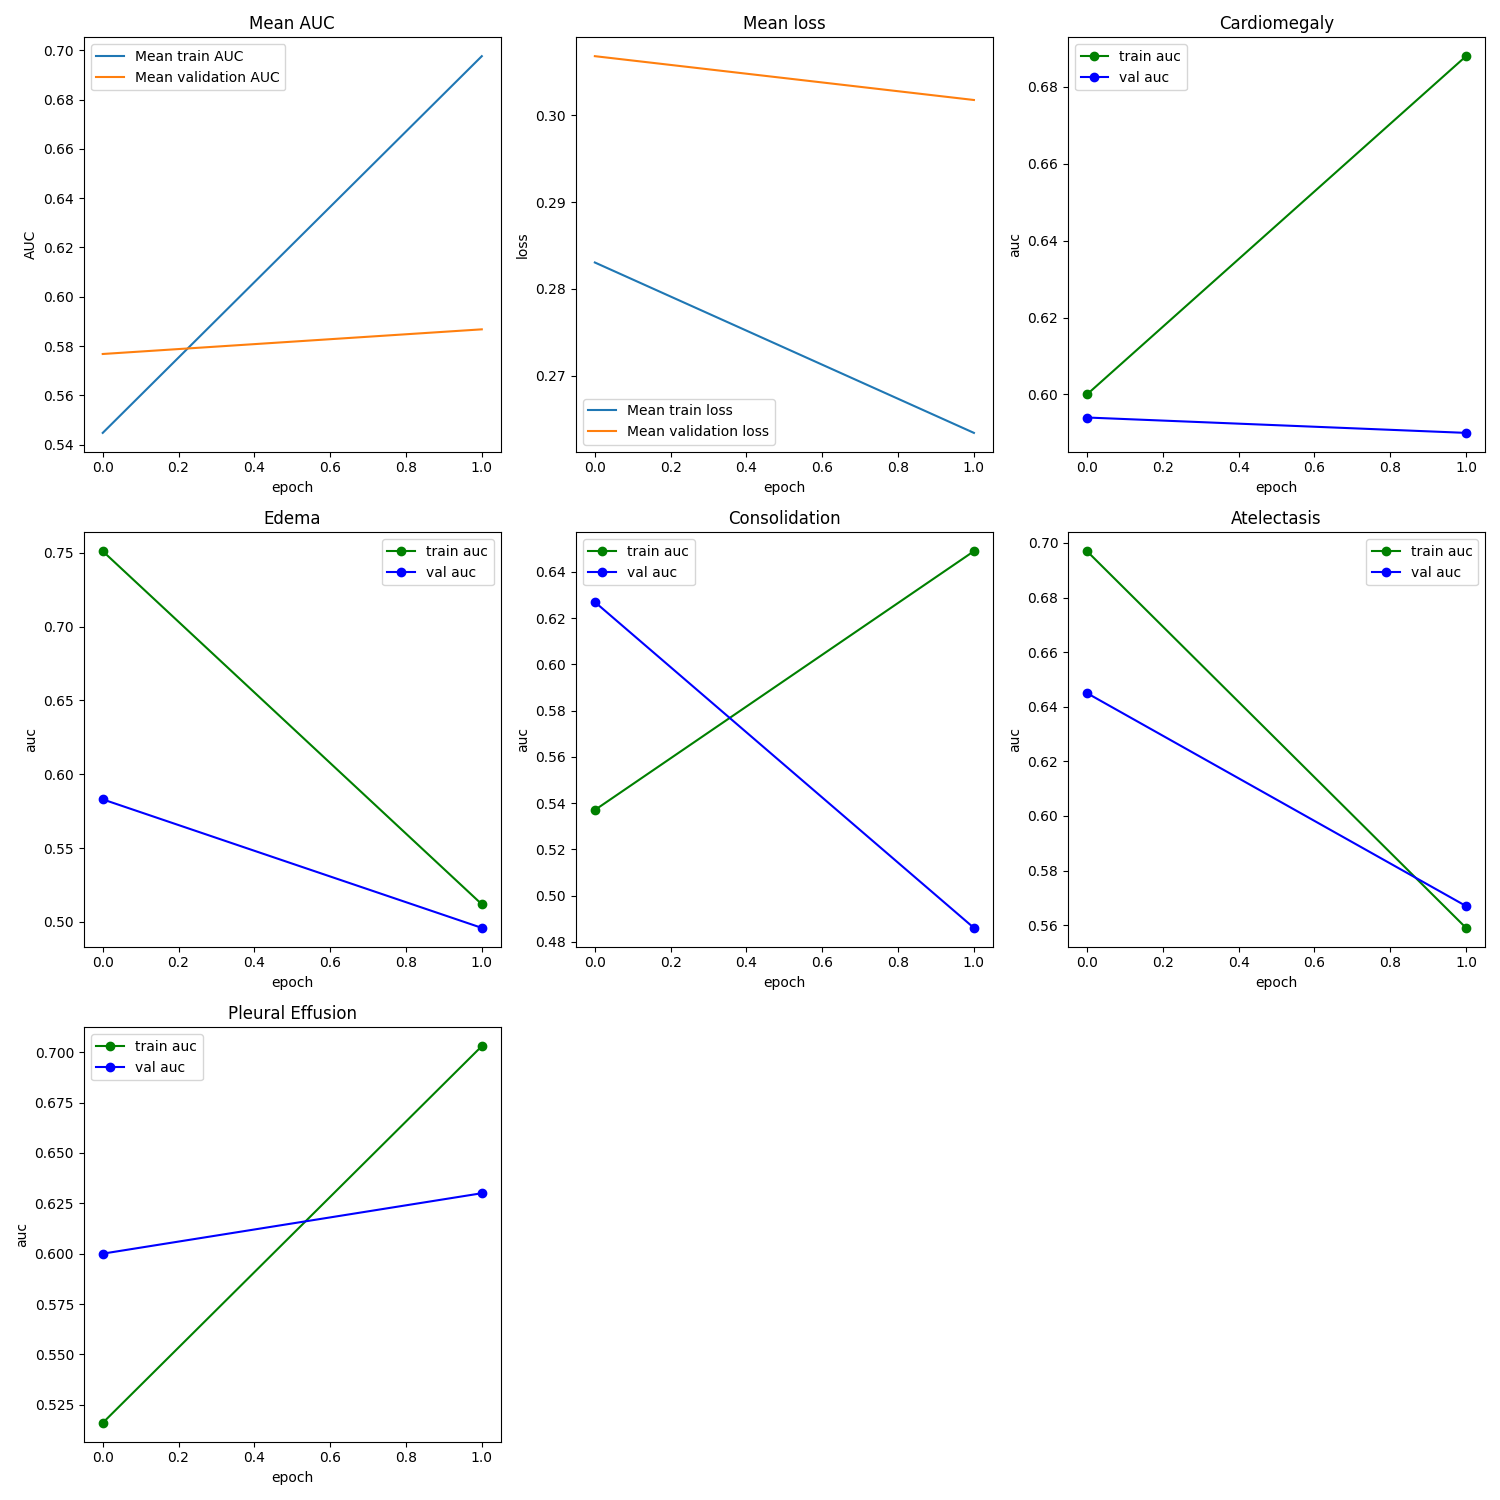
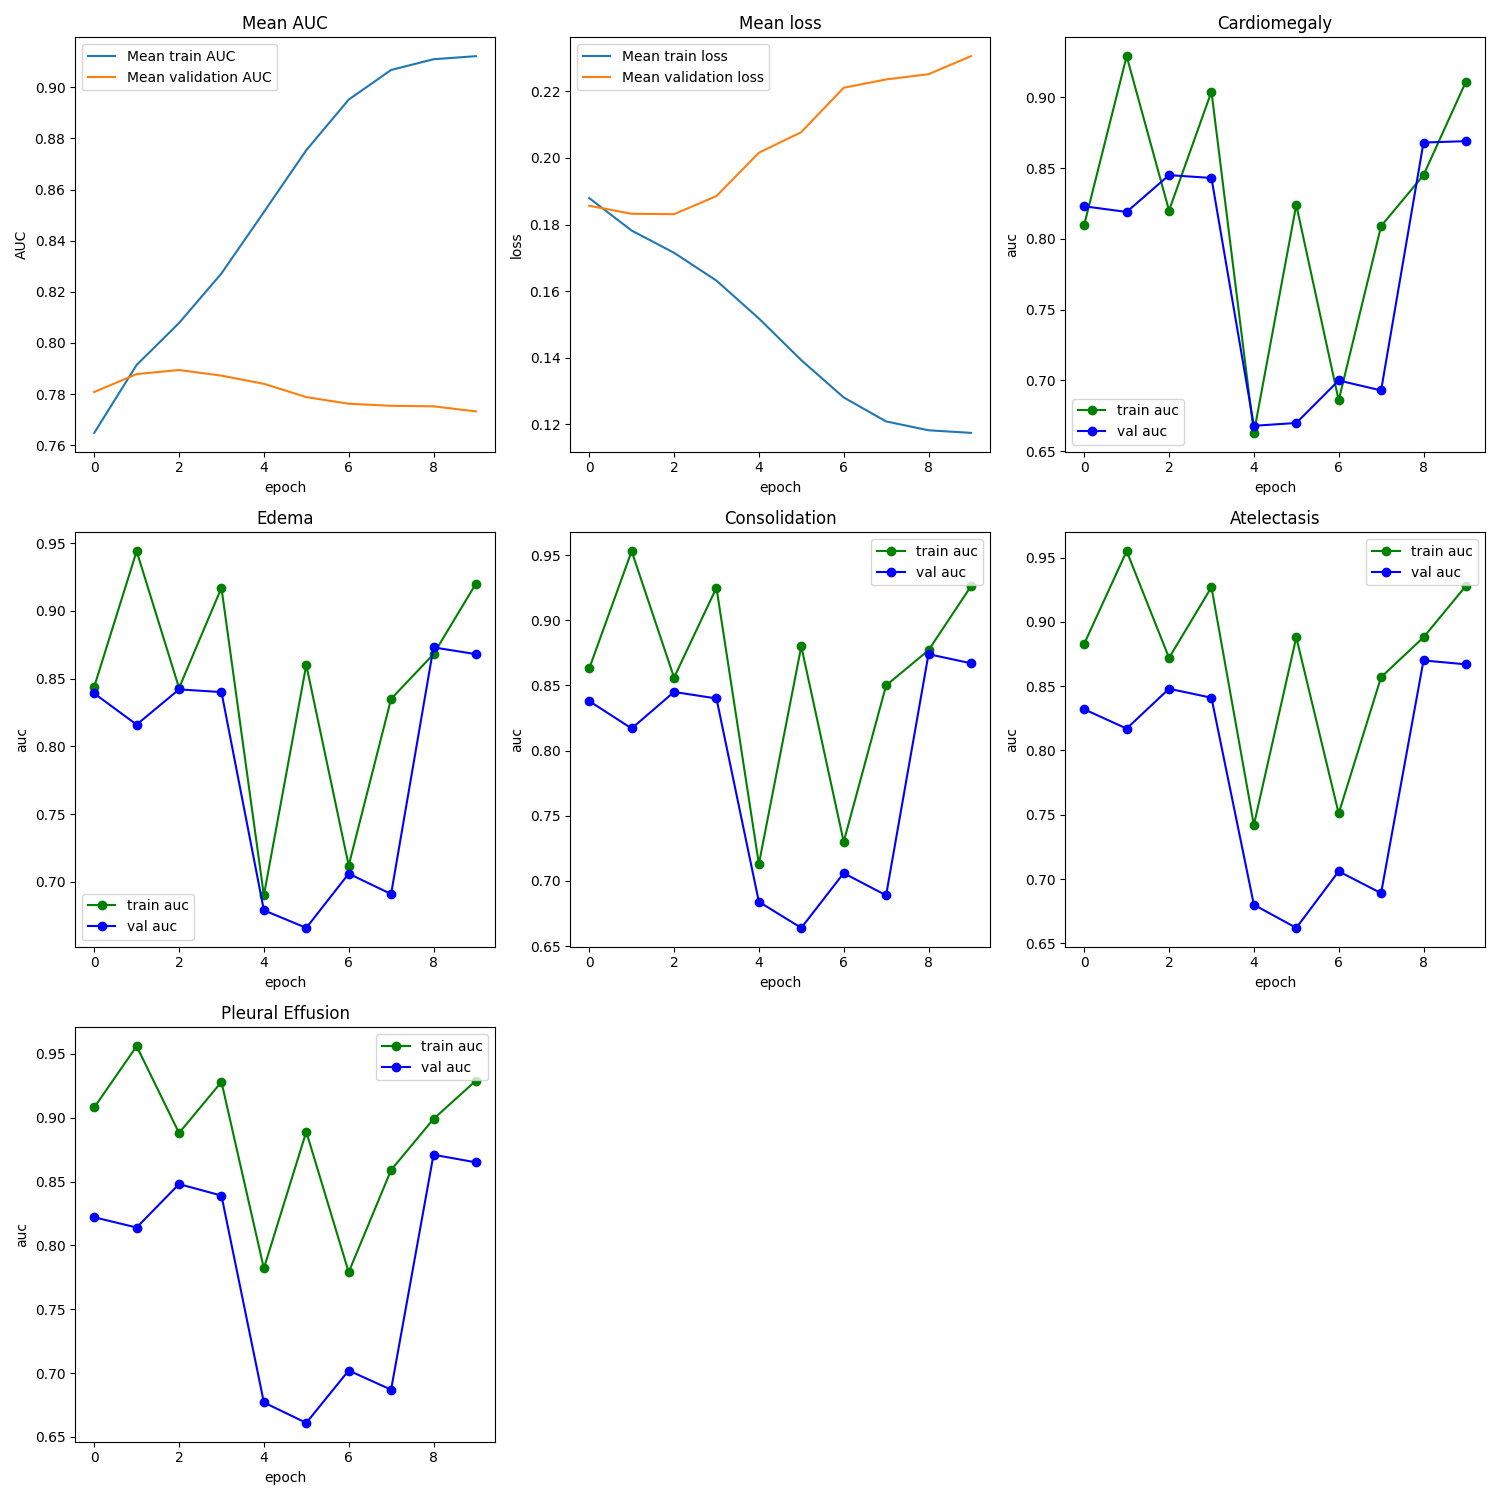
add visualize

diff --git a/chexpert/src/utils.py b/chexpert/src/utils.py
@@ -92,7 +92,6 @@ def save_plots(folder,train_metrics, val_metrics, test_metrics,fold=1, class_idx
             
             for item in test_metrics :
                 test_meanAUC.append(item["meanAUC"])
-                # val_loss.append(item["loss"])
 
             train_meanAUC=np.array(train_meanAUC)
             val_meanAUC=np.array(val_meanAUC)
@@ -110,7 +109,7 @@ def save_plots(folder,train_metrics, val_metrics, test_metrics,fold=1, class_idx
                 for j in range(3):
                     if i==0 and j==0:
                         continue
-                    ax[i,j].plot(test_aucs[:,counter],color='blue', linestyle='-', marker="o",label="test auc")
+                    ax[i,j].plot(test_aucs[counter],color='blue', linestyle='-', marker="o",label="test auc")
                     ax[i,j].set(xlabel="epoch", ylabel="auc")
                     ax[i,j].set_title(classlabel[counter])
                     ax[i,j].legend()
@@ -119,10 +118,8 @@ def save_plots(folder,train_metrics, val_metrics, test_metrics,fold=1, class_idx
             plt.show()
             fig.savefig(test_save_path)
             plt.clf()            
-
-
-            row=int(math.sqrt(len(classlabel)+2))
-            fig,ax=plt.subplots(row+1,row+1,figsize=(15, 15))
+            
+            fig,ax=plt.subplots(3,3,figsize=(15, 15))
             stop_plot=False
             counter=0
             ax[0,0].plot(train_meanAUC,label="Mean train AUC")
@@ -137,10 +134,10 @@ def save_plots(folder,train_metrics, val_metrics, test_metrics,fold=1, class_idx
             ax[0,1].legend()
             ax[2,1].remove()
             ax[2,2].remove()
-            for i in range(row+1):
+            for i in range(3):
                 if stop_plot:
                     break
-                for j in range (row+1):
+                for j in range (3):
                     if i==0 and j==0:
                         continue
                     if i==0 and j==1:
@@ -150,8 +147,8 @@ def save_plots(folder,train_metrics, val_metrics, test_metrics,fold=1, class_idx
                     if counter>=len(classlabel):
                         stop_plot=True
                         break             
-                    ax[i,j].plot(train_aucs[:,counter],color='green', linestyle='-', marker="o",label="train auc")
-                    ax[i,j].plot(val_aucs[:,counter],color='blue', linestyle='-', marker="o",label="val auc")
+                    ax[i,j].plot(train_aucs[counter],color='green', linestyle='-', marker="o",label="train auc")
+                    ax[i,j].plot(val_aucs[counter],color='blue', linestyle='-', marker="o",label="val auc")
                     ax[i,j].set(xlabel="epoch", ylabel="auc")
                     ax[i,j].set_title(classlabel[counter])
                     ax[i,j].legend()

diff --git a/chexpert/data/dataset.py b/chexpert/data/dataset.py
@@ -111,40 +111,27 @@ class ChestDataset(Dataset):
         std=np.sqrt(var)
         return mean,std
               
-def random_visualize(train_dataset,test_dataset):
+def random_visualize(train_dataset,test_dataset,save_folder="/root/repo/chexpert_classification/output/visualize"):
     n_samples=10
   
     train_samples={}
     test_samples={}
-    current_file_path = os.path.abspath(__file__)
-
-    parent_directory = os.path.dirname(current_file_path)
-
-
-    save_folder="/root/repo/chexpert_classification/chexpert/output/learning_analysis"
     for i in range (n_samples):
 
         train_idx=random.choice(range(len(train_dataset)))
         test_idx=random.choice(range(len(test_dataset)))
         train_samples[str(train_idx)]=train_dataset.__getitem__(train_idx)
         test_samples[str(test_idx)]=test_dataset.__getitem__(test_idx) 
-    fig,ax=plt.subplots(4,n_samples, figsize=(30,30))
+    fig,ax=plt.subplots(2,n_samples, figsize=(30,30))
     plt.tight_layout()
 
     for i,key in enumerate (train_samples.keys()):
         ax[0,i].imshow(  train_samples[key][0][0],cmap="gray")
         ax[0,i].set_title(f"row {key} of train dataset" )
 
-        ax[2,i].imshow(train_dataset.get_original_item(int(key))[0],cmap="gray")   
-        ax[2,i].set_title(f"row {key} of original train dataset" )    
-
     for i,key in enumerate (test_samples.keys()):
         ax[1,i].imshow( test_samples[key][0][0], cmap="gray")
         ax[1,i].set_title(f"row {key} of test dataset" )
-
-        ax[3,i].imshow(test_dataset.get_original_item(int(key))[0],cmap="gray")   
-        ax[3,i].set_title(f"row {key} of original test dataset" )    
-
 
     plt.show()
     plt.savefig(os.path.join(save_folder,"samples_visualize.png"))
@@ -160,17 +147,20 @@ if __name__=="__main__":
     config_path= Path(__file__).resolve().parent.parent /"config/config.yaml"
     with open(config_path, 'r') as stream:
         cfg = yaml.load(stream, Loader=yaml.SafeLoader)
-    traindataset=ChestDataset(cfg=cfg,mode="train")
-    latdataset=ChestDataset(cfg=cfg,mode="train",view="lateral")
+    f_trainset=ChestDataset(cfg=cfg,mode="train")
+    l_trainset=ChestDataset(cfg=cfg,mode="train",view="lateral")
+    f_testset=ChestDataset(cfg=cfg,mode="test")
+    l_testset=ChestDataset(cfg=cfg,mode="test",view="lateral")
 
-    loader=DataLoader(traindataset,batch_size=5)
-    for i , sample in enumerate(loader):
-        pass
+    
+
+   
 
     # sam=traindataset.__getitem__(0)[0]
     # # print (sam.shape)
     # testdataset=ChestDataset(cfg=cfg,mode="test")
-    # random_visualize(traindataset,testdataset)
+    # random_visualize(f_trainset,f_testset)
+    random_visualize(l_trainset,l_testset)
    
 
 

diff --git a/chexpert/data/common.py b/chexpert/data/common.py
@@ -28,8 +28,6 @@ def load_transform(cfg,mode:Literal["train","test"]="train", train_mode:Literal[
     else :
         raise RuntimeError(f"invalid train mode{train_mode} ")
           
-    ceil=int (img_size*(1+factor) )
-    floor=int (img_size*(1-factor) )
     def expand (image,*arg,**karg):
                 image=np.expand_dims(image,axis=0)
                 return np.repeat(image,3,axis=0)
@@ -37,7 +35,7 @@ def load_transform(cfg,mode:Literal["train","test"]="train", train_mode:Literal[
                     # A.Resize(height=ceil,width=ceil) ,                     
                     A.ShiftScaleRotate( scale_limit =(-0.2, 0.2) ,rotate_limit=(-10,10)),
                     A.RandomResizedCrop(height=img_size,width=img_size,scale=(0.9, 1.0),ratio=(0.75, 1.3333333333333333)),
-
+                    A.Resize(height=img_size,width=img_size),
                     A.HorizontalFlip(),
                     A.Normalize(mean=[128.21/255], std=[73.22/255]),
                     A.Lambda( image=expand),                

diff --git a/chexpert/src/chexpert.py b/chexpert/src/chexpert.py
@@ -52,9 +52,6 @@ class chexpertNet():
                 print (f"{k} train epoch{epoch}")
                 model=dict[k][0]
                 data_loader=dict[k][1]
-
-
-
                 optim=dict[k][2]
                 log_interval=self.cfg["train_params"]["log_interval"]
                 outputs=[]
@@ -218,15 +215,6 @@ class chexpertNet():
         utils.save_metrics_and_models({"train_stats":train_metrics,"val_stats":val_metrics,"test_stats":test_metrics},[self.f_model,self.l_model],self.fold)
         
     
-
-    def train_frontal(self):
-        train_dataset=ChestDataset(cfg=self.cfg,mode="train",fold=self.fold)
-        train_loader = torch.utils.data.DataLoader(
-                    train_dataset, 
-                    batch_size=self.cfg["train_params"]["batch_size"])
-        val_loader = torch.utils.data.DataLoader(
-                    train_dataset,
-                    batch_size=self.cfg["train_params"]["batch_size"])   
 
 if __name__=="__main__":
      
